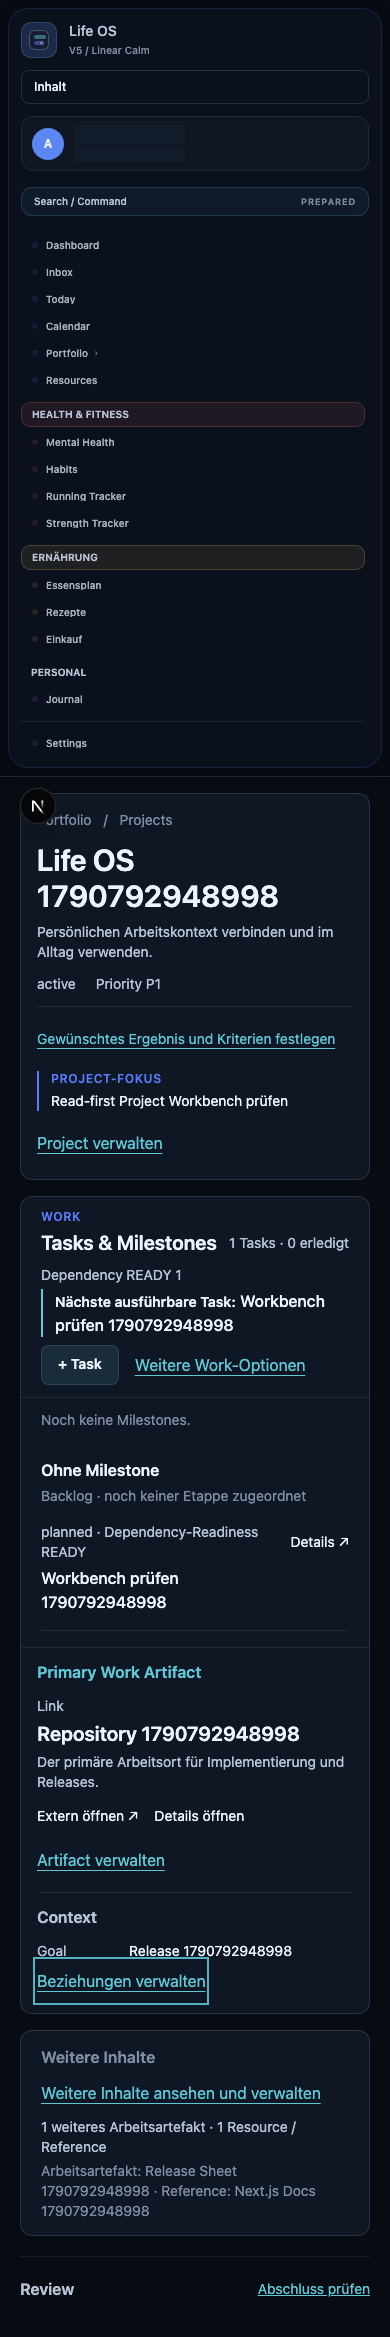
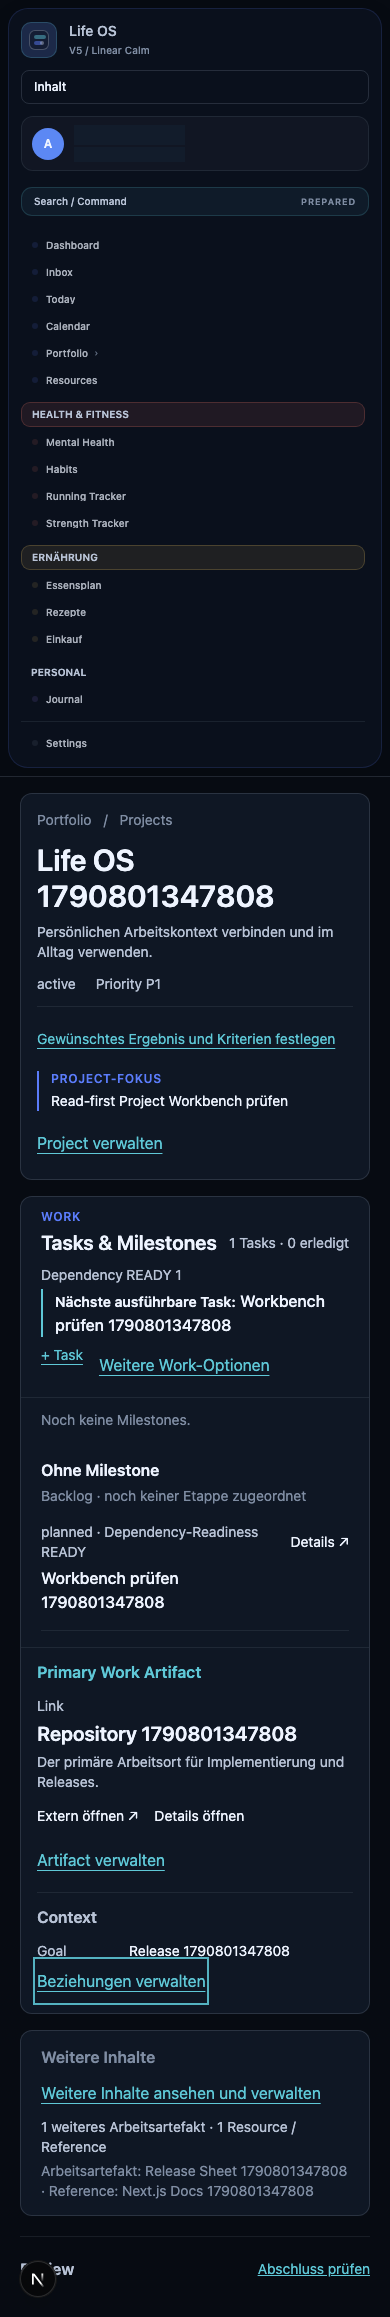
fix: keep project task add secondary

Changed region(s): [[0.0615, 0.0311, 0.8923, 0.9944], [0.7692, 0.0621, 0.9231, 0.0932]]

diff --git a/tests/e2e/r2-09-project-read-first.spec.ts b/tests/e2e/r2-09-project-read-first.spec.ts
@@ -117,6 +117,10 @@ test("R2-09 read-first Project: disclosure, edit, artifacts, relations and respo
     name: "Tasks & Progress",
     exact: true,
   });
+  const addTaskLink = taskRegion.getByRole("link", {
+    name: "+ Task",
+    exact: true,
+  });
   const projectManagement = page.getByRole("button", {
     name: "Project verwalten",
     exact: true,
@@ -137,6 +141,30 @@ test("R2-09 read-first Project: disclosure, edit, artifacts, relations and respo
   ).toContainText(project.next_step!);
   await expect(primary).toContainText(resources[0].title);
   await expect(taskRegion).toContainText("1 Tasks · 0 erledigt");
+  await expect(addTaskLink).toBeVisible();
+  const addTaskAppearance = await addTaskLink.evaluate((element) => {
+    const style = getComputedStyle(element);
+    return {
+      backgroundColor: style.backgroundColor,
+      color: style.color,
+      fontWeight: style.fontWeight,
+      textDecorationLine: style.textDecorationLine,
+    };
+  });
+  const workOptionsAppearance = await taskRegion
+    .getByRole("button", { name: "Weitere Work-Optionen", exact: true })
+    .evaluate((element) => {
+      const style = getComputedStyle(element);
+      return {
+        color: style.color,
+        fontWeight: style.fontWeight,
+        textDecorationLine: style.textDecorationLine,
+      };
+    });
+  expect(addTaskAppearance.color).toBe(workOptionsAppearance.color);
+  expect(addTaskAppearance.backgroundColor).toBe("rgba(0, 0, 0, 0)");
+  expect(addTaskAppearance.fontWeight).toBe("400");
+  expect(addTaskAppearance.textDecorationLine).toBe("underline");
   await expect(
     page.getByRole("button", { name: "Verknüpfung entfernen", exact: true }),
   ).toHaveCount(0);
@@ -146,6 +174,9 @@ test("R2-09 read-first Project: disclosure, edit, artifacts, relations and respo
     [390, 844],
   ]) {
     await page.setViewportSize({ width, height });
+    await page.evaluate(() => {
+      (document.activeElement as HTMLElement | null)?.blur();
+    });
     expect(
       await page.evaluate(
         () => document.documentElement.scrollWidth <= innerWidth,

diff --git a/src/features/entities/workbench/project-work.tsx b/src/features/entities/workbench/project-work.tsx
@@ -117,9 +117,17 @@ export function ProjectWork({
     blockedCount: graphSummary.blocked.filter(taskHasExecutableLifecycle)
       .length,
   });
-  const createTaskLink = (milestoneId?: string, label = "+ Task") => (
+  const createTaskLink = (
+    milestoneId?: string,
+    label = "+ Task",
+    quiet = false,
+  ) => (
     <Link
-      className={actionClass}
+      className={
+        quiet
+          ? "min-h-10 text-left text-sm text-[var(--accent-cyan)]! underline! underline-offset-4 focus-visible:outline focus-visible:outline-2 focus-visible:outline-[var(--focus-ring)]"
+          : actionClass
+      }
       prefetch={false}
       href={`/tasks/new?${new URLSearchParams({ project: projectId, ...(milestoneId ? { milestone: milestoneId } : {}) })}`}
     >
@@ -325,7 +333,7 @@ export function ProjectWork({
         {!project.archived_at && (
           <div className={styles.workActions}>
             {summary.taskCount > 0 &&
-              createTaskLink(currentMilestone?.id, "+ Task")}
+              createTaskLink(currentMilestone?.id, "+ Task", true)}
             <ManagementDialog
               label="Weitere Work-Optionen"
               triggerText="Weitere Work-Optionen"
